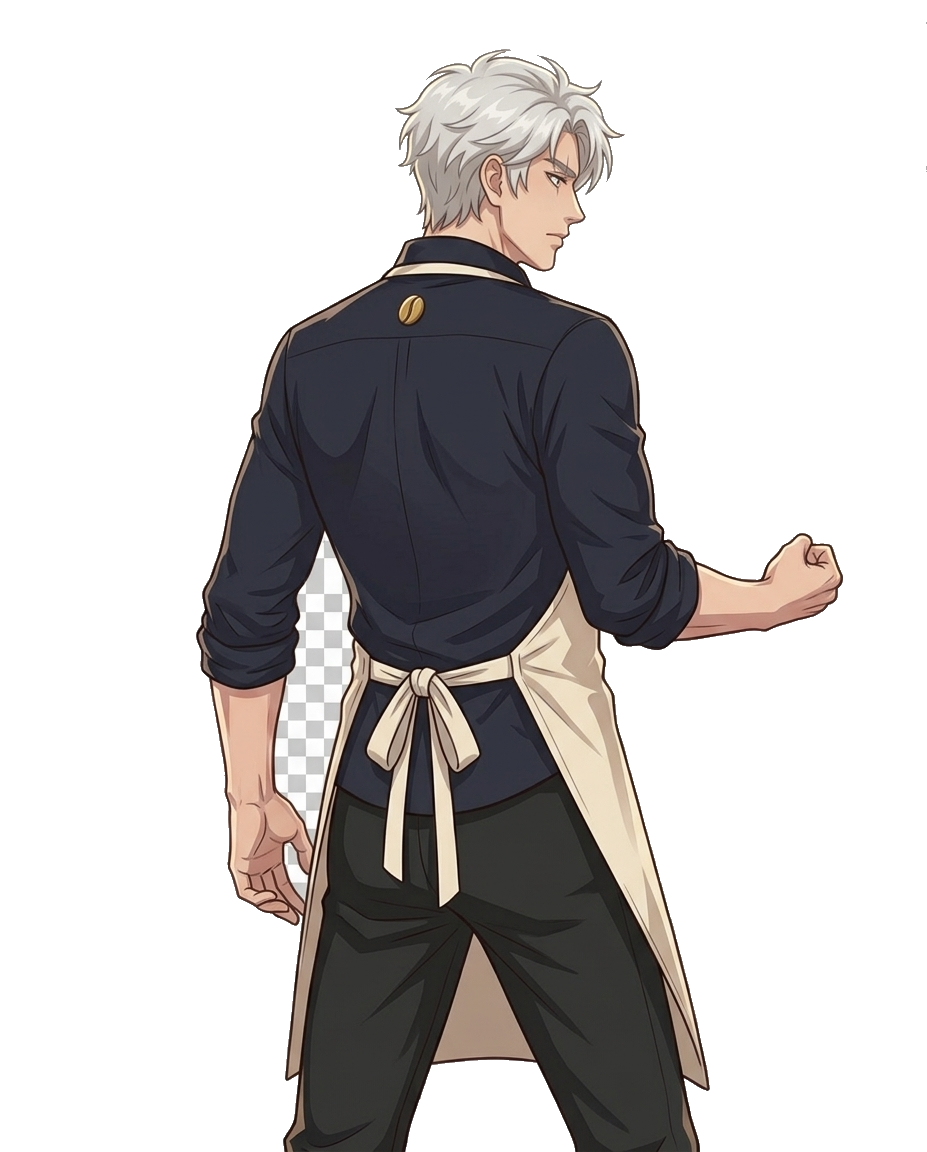
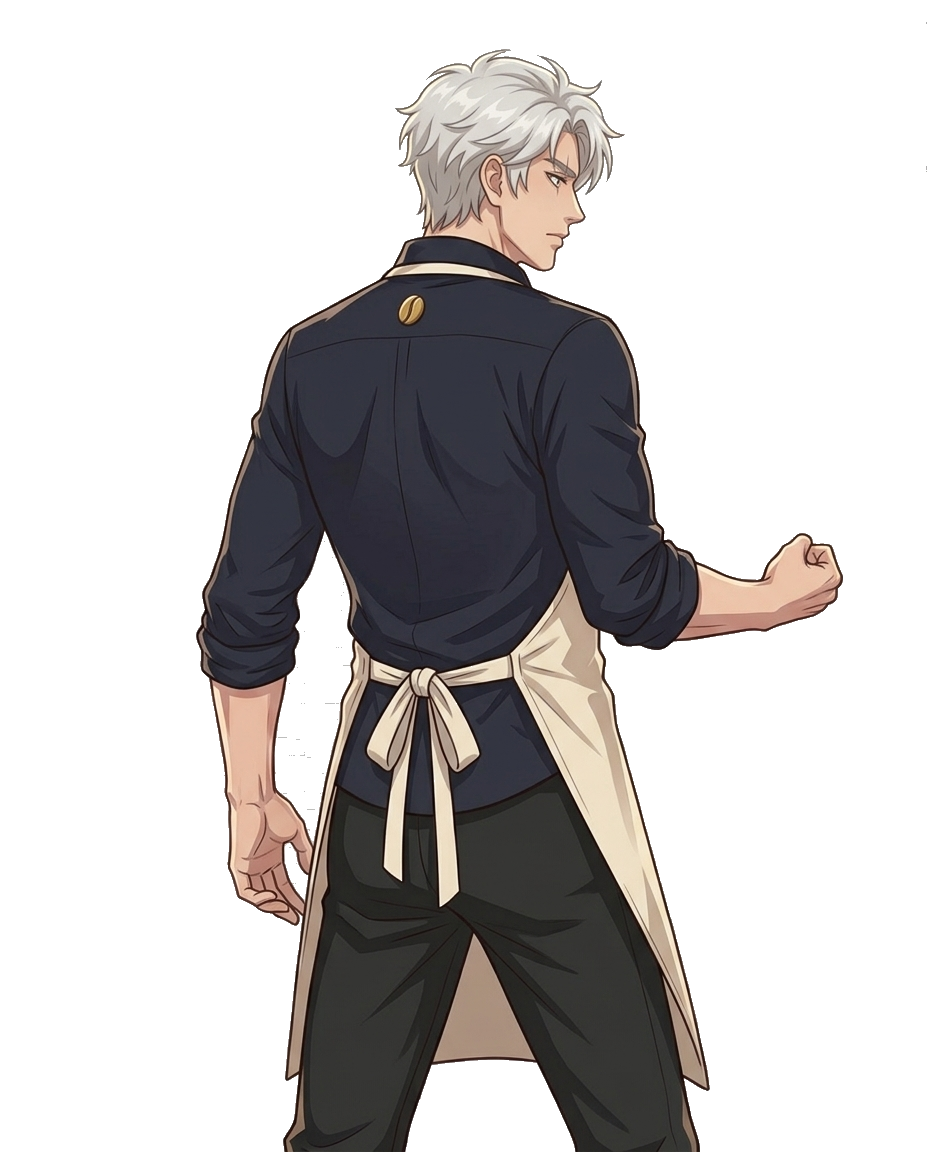
5단계: 재료 확장 + 6 카테고리 조합 + 카페/전투 효과 연동
재료: 우유·시럽·카카오(채집) + 황금원두(전투 희귀 드롭) 추가, SVG 4종 신규
  - GATHER_MATS로 채집 풀에서 황금원두 제외, MAT_ICON 자동 생성
  - 승리 시 황금원두 드롭(보스35%/일반12%)
조합: CRAFT_DB 6종 정비 — 😊카페라떼·⏳타임시럽·💯골든블렌드·💖하트마카롱·⚔️더블샷·🛡️크림실드
  - 각 레시피 where(cafe/battle)로 소비 위치 구분
효과 연동:
  - 카페(useCraftedItem): mood(다음 손님 3명 골드+50%, moodBoost 세이브)·affection(메인 3명 호감+10)
  - 전투(explore): 🎒 아이템 버튼+미니 메뉴, 더블샷=공격력×1.5·크림실드=피해×0.5(전투당 초기화)
  - 카페 잡화점은 where=cafe만 노출, 전투템 카페 사용 시 안내
  - 스펠링 조합 퀴즈 게이트(정답시 재료소모+SRS box↑, 오답시 보존)는 기존 유지
세이브: moodBoost 등 신규 필드 없으면 기본값(기존 패턴)

Changed region(s): [[0.2718, 0.4688, 0.3927, 0.7812]]

diff --git a/explore.html b/explore.html
@@ -191,7 +191,17 @@
   @keyframes dpop{ 0%{ transform:translateY(0) scale(.6); opacity:0 } 20%{ transform:translateY(-10px) scale(1.15); opacity:1 } 100%{ transform:translateY(-54px) scale(1); opacity:0 } }
   .b-bottom{ background:linear-gradient(180deg,#3a2620,#2b1a16); border-top:3px solid var(--gold); padding:10px 14px calc(10px + env(safe-area-inset-bottom)); }
   .b-msg{ min-height:2.1em; color:#fff8e1; font-size:1.02rem; line-height:1.35; margin-bottom:9px; padding:1px 3px; }
-  .b-cmds{ display:grid; grid-template-columns:1fr 1.35fr 1fr; gap:10px; transition:opacity .3s; }
+  .b-cmds{ display:grid; grid-template-columns:1fr 1.3fr 0.85fr 0.85fr; gap:8px; transition:opacity .3s; }
+  .cmd-item{ background:linear-gradient(180deg,#a5d6a7,#66bb6a); box-shadow:0 4px 0 #2e7d32; color:#173b1a; }
+  .cmd-item:active{ box-shadow:0 2px 0 #2e7d32; }
+  /* 전투 아이템 미니 메뉴 */
+  #b-itemmenu{ position:absolute; left:0; right:0; bottom:100%; margin-bottom:8px; display:none; z-index:8; }
+  #b-itemmenu.show{ display:block; }
+  .bi-card{ display:flex; align-items:center; gap:10px; background:#fff; border-radius:13px; padding:9px 12px; margin:0 14px 8px; box-shadow:0 5px 14px rgba(0,0,0,.35); }
+  .bi-ic{ font-size:1.5rem; } .bi-nm{ font-weight:bold; color:#3a2a16; font-size:.95rem; } .bi-bn{ font-size:.78rem; color:#7a5a2a; }
+  .bi-use{ margin-left:auto; border:none; border-radius:11px; padding:7px 14px; font-family:inherit; font-weight:bold; color:#fff; background:linear-gradient(180deg,#66bb6a,#388e3c); box-shadow:0 3px 0 #2e7d32; cursor:pointer; }
+  .bi-use:active{ transform:translateY(2px); box-shadow:none; }
+  .bi-empty{ background:rgba(255,255,255,.95); border-radius:13px; padding:12px; margin:0 14px 8px; text-align:center; color:#7a5a2a; font-size:.88rem; }
   .b-cmd{ position:relative; overflow:hidden; border:none; border-radius:15px; font-family:inherit; cursor:pointer;
     display:flex; flex-direction:column; align-items:center; justify-content:center; gap:1px; padding:9px 6px 8px; line-height:1.05; }
   .b-cmd .cmd-ic{ font-size:1.45rem; } .b-cmd .cmd-lb{ font-size:.92rem; font-weight:bold; }
@@ -316,11 +326,13 @@
     <div id="p-pop" style="position:absolute; bottom:20%; left:18%;"></div>
     <div id="b-flash"></div>
   </div>
-  <div class="b-bottom">
+  <div class="b-bottom" style="position:relative;">
+    <div id="b-itemmenu"></div>
     <div class="b-msg" id="b-msg" onpointerdown="Battle.skipTap()">전투 시작!</div>
     <div class="b-cmds">
       <button class="b-cmd cmd-atk" id="cmd-atk" onclick="Battle.playerAttack('normal')"><span class="cmd-ic">🗡️</span><span class="cmd-lb">공격</span></button>
       <button class="b-cmd cmd-skill" id="cmd-skill" onclick="Battle.useSkill()" disabled><span class="skill-fill" id="skill-fill"></span><span class="cmd-ic" id="skill-ic">✨</span><span class="cmd-lb" id="skill-lb">스킬</span></button>
+      <button class="b-cmd cmd-item" id="cmd-item" onclick="Battle.toggleItems()"><span class="cmd-ic">🎒</span><span class="cmd-lb">아이템</span></button>
       <button class="b-cmd cmd-flee" id="cmd-flee" onclick="Battle.flee()"><span class="cmd-ic">🏃</span><span class="cmd-lb">도망</span></button>
     </div>
   </div>
@@ -447,9 +459,15 @@ function checkRotate(){ applyOrientation(); } // 하위호환
 
 // ---------- 재료 (커스텀 SVG 스프라이트) ----------
 const MATERIALS = {
-  bean:  { name:'커피 원두', icon:'☕', img:'sprites/bean.svg' },
-  berry: { name:'커피 체리', icon:'🍒', img:'sprites/cherry.svg' },
+  bean:     { name:'커피 원두', icon:'☕', img:'sprites/bean.svg' },
+  berry:    { name:'커피 체리', icon:'🍒', img:'sprites/cherry.svg' },
+  milk:     { name:'우유',     icon:'🥛', img:'sprites/milk.svg' },
+  syrup:    { name:'시럽',     icon:'🍯', img:'sprites/syrup.svg' },
+  cacao:    { name:'카카오',   icon:'🟤', img:'sprites/cacao.svg' },
+  goldbean: { name:'황금 원두', icon:'🌟', img:'sprites/goldbean.svg', rare:true }, // 채집X, 전투 희귀 드롭만
 };
+// 채집 노드로 등장하는 재료(황금 원두는 제외 — 전투 보상으로만 획득)
+const GATHER_MATS = Object.keys(MATERIALS).filter(k => !MATERIALS[k].rare);
 // ---------- 동행 캐릭터 (채용 게이팅은 Stage C, 지금은 자유 선택해 미리보기) ----------
 const COMPANIONS = {
   none: { name:'기본',  emoji:'🧑🍳', img:null, battleImg:'chars/chef_back.png', charId:null },
@@ -483,13 +501,15 @@ const EQUIP_DB = {
     { id:'a_bean',  name:'원두 갑옷',     icon:'🧥', def:6, hp:20, cost:{gold:600, bean:8, berry:8} },
   ],
 };
-const MAT_ICON = { bean:'☕', berry:'🍒' };
+const MAT_ICON = Object.fromEntries(Object.entries(MATERIALS).map(([k,m])=>[k,m.icon]));
 // ---------- 조합 레시피 (재료+스펠링퀴즈 → 카페에서 쓰는 특별 아이템) ----------
 const CRAFT_DB = [
-  { id:'cr_score',  name:'골든 블렌드', icon:'✨', cost:{bean:3},          effect:'double', edesc:'카페: 다음 정답 점수 2배' },
-  { id:'cr_time',   name:'타임 시럽',   icon:'⏳', cost:{berry:3},         effect:'time',   edesc:'카페: 손님 시간 +5초' },
-  { id:'cr_shield', name:'포근한 라떼', icon:'🛡️', cost:{bean:2,berry:2},  effect:'shield', edesc:'카페: 콤보 보호막' },
-  { id:'cr_life',   name:'에너지 샷',   icon:'❤️', cost:{bean:4},          effect:'life',   edesc:'카페: 라이프 +1' },
+  { id:'cr_mood',  name:'카페라떼',     icon:'😊', cost:{bean:2,milk:2},     effect:'mood',   where:'cafe',   edesc:'카페: 다음 손님 3명 골드 +50%' },
+  { id:'cr_time',  name:'타임 시럽',    icon:'⏳', cost:{syrup:3},           effect:'time',   where:'cafe',   edesc:'카페: 지금 손님 시간 +5초' },
+  { id:'cr_score', name:'골든 블렌드',  icon:'💯', cost:{goldbean:1,bean:2}, effect:'double', where:'cafe',   edesc:'카페: 다음 정답 점수 2배' },
+  { id:'cr_heart', name:'하트 마카롱',  icon:'💖', cost:{cacao:2,milk:1},    effect:'affection', where:'cafe', edesc:'카페: 메인 손님 호감 +10' },
+  { id:'cr_atk',   name:'더블 샷',      icon:'⚔️', cost:{bean:3},            effect:'atkup',  where:'battle', edesc:'탐험: 이번 전투 공격력 +50%' },
+  { id:'cr_def',   name:'크림 실드',    icon:'🛡️', cost:{milk:2,berry:2},    effect:'defup',  where:'battle', edesc:'탐험: 이번 전투 받는 피해 −50%' },
 ];
 // ---------- 이미지 프리로더 ----------
 const Assets = {
@@ -573,7 +593,7 @@ const World = {
     for(let i=0;i<60;i++){ const x=2+Math.floor(this.rnd()*(this.WT-4)), y=3+Math.floor(this.rnd()*(this.HT-5));
       if(!this.barrier.has(key(x,y))) this.deco[y][x]=[39,42,43][Math.floor(this.rnd()*3)]; }
     // 채집 노드
-    const mats=Object.keys(MATERIALS);
+    const mats=GATHER_MATS;
     let placed=0, tries=0;
     while(placed<28 && tries<400){ tries++;
       const x=2+Math.floor(this.rnd()*(this.WT-4)), y=3+Math.floor(this.rnd()*(this.HT-5));
@@ -1051,6 +1071,7 @@ const Battle = {
       base = MONSTERS[ids[Math.floor(this._rand()*ids.length)]] || MONSTERS.slime; }
     const m = this.scaleMonster(base, opts);
     this.enemy=m; this.eMax=m.hp; this.eHp=m.hp; this.active=true; this.busy=false; this.lastStep=Explore.state.steps;
+    this.atkBuff=1; this.dmgReduce=0; this.hideItems(); // 전투 아이템 버프는 전투마다 초기화
     World.release();
     const es=document.getElementById('e-sprite'); es.className='sprite-enemy'+(m.isBoss?' boss':'');
     if(m.art){ es.innerHTML='<img src="'+m.art+'">'; } else { es.classList.add('emoji'); es.textContent=m.emoji; }
@@ -1084,7 +1105,22 @@ const Battle = {
   setBar(who,hp,max){ const f=document.getElementById(who+'-hpfill'); const pct=Math.max(0,Math.min(100,hp/max*100));
     f.style.width=pct+'%'; f.className='hpfill'+(pct<=25?' low':(pct<=50?' mid':'')); },
   calc(atk,def,mult){ let b=atk*mult-def*0.5; b*=0.85+this._rand()*0.3; const crit=this._rand()<0.12; if(crit)b*=1.6; return {dmg:Math.max(1,Math.round(b)),crit}; },
-  setButtons(on){ this._canAct=on; document.getElementById('cmd-atk').disabled=!on; document.getElementById('cmd-flee').disabled=!on; this.refreshSkill(); },
+  setButtons(on){ this._canAct=on; document.getElementById('cmd-atk').disabled=!on; document.getElementById('cmd-flee').disabled=!on;
+    const ib=document.getElementById('cmd-item'); if(ib) ib.disabled=!on; if(!on) this.hideItems(); this.refreshSkill(); },
+  // ----- 전투 소비 아이템(공격력↑/방어력↑) — 같은 craftedItems 공유, 이번 전투 한정 버프 -----
+  toggleItems(){ if(this.busy||!this.active)return; const m=document.getElementById('b-itemmenu');
+    if(m.classList.contains('show')){ this.hideItems(); return; } this.renderItems(); m.classList.add('show'); },
+  hideItems(){ const m=document.getElementById('b-itemmenu'); if(m) m.classList.remove('show'); },
+  renderItems(){ const owned=Explore.cafe.craftedItems||{}; const list=CRAFT_DB.filter(r=>r.where==='battle'&&(owned[r.id]||0)>0);
+    const m=document.getElementById('b-itemmenu');
+    if(!list.length){ m.innerHTML='<div class="bi-empty">전투 아이템이 없어요.<br>조합소에서 ⚔️·🛡️ 아이템을 만들어보세요!</div>'; return; }
+    m.innerHTML=list.map(r=>`<div class="bi-card"><span class="bi-ic">${r.icon}</span><div><div class="bi-nm">${r.name} <small style="color:#999">x${owned[r.id]}</small></div><div class="bi-bn">${r.edesc.replace(/^탐험:\s*/,'')}</div></div><button class="bi-use" onclick="Battle.useBattleItem('${r.id}')">사용</button></div>`).join(''); },
+  useBattleItem(id){ if(this.busy||!this.active)return; const r=CRAFT_DB.find(x=>x.id===id); const owned=Explore.cafe.craftedItems||{};
+    if(!r||!(owned[id]>0))return;
+    owned[id]--; if(owned[id]<=0) delete owned[id]; Explore.cafe.craftedItems=owned; Explore.persist();
+    if(r.effect==='atkup'){ this.atkBuff=1.5; this.msg(`⚔️ <b>${r.name}</b> 사용! 이번 전투 공격력 +50%`); }
+    else if(r.effect==='defup'){ this.dmgReduce=0.5; this.msg(`🛡️ <b>${r.name}</b> 사용! 이번 전투 받는 피해 −50%`); }
+    Sfx.play('correct'); exHaptic('success'); this.hideItems(); },
   refreshSkill(){ const sb=document.getElementById('cmd-skill'); if(!sb)return; const ready=this.gauge>=this.GMAX;
     const fill=document.getElementById('skill-fill'); if(fill) fill.style.height=Math.min(100,this.gauge/this.GMAX*100)+'%';
     sb.disabled=!(this._canAct&&ready); sb.classList.toggle('ready', ready&&!!this._canAct); },
@@ -1114,7 +1150,7 @@ const Battle = {
     const ps=document.getElementById('p-self'), es=document.getElementById('e-sprite');
     ps.classList.add('lunge'); await this.wait(150);
     if(this._rand()<miss){ Sfx.play('miss'); this.pop('e','MISS','miss'); this.msg('공격이 빗나갔다…'); await this.wait(650); }
-    else { const {dmg,crit}=this.calc(p.atk,this.enemy.def,power?1.7:1.0); this.eHp-=dmg;
+    else { const {dmg,crit}=this.calc(p.atk,this.enemy.def,(power?1.7:1.0)*(this.atkBuff||1)); this.eHp-=dmg;
       Sfx.play(crit?'crit':'hit'); exHaptic(crit?'heavy':'light');
       es.classList.add('hit'); this.shake(); this.pop('e','-'+dmg+(crit?'!':''),crit?'crit':null);
       this.msg(`${power?'강공격! ':''}${this.enemy.name}에게 <b>${dmg}</b> 피해!${crit?' 치명타!':''}`); this.renderBars(); await this.wait(550); es.classList.remove('hit'); }
@@ -1123,7 +1159,7 @@ const Battle = {
   async enemyTurn(){ const ps=document.getElementById('p-self'), es=document.getElementById('e-sprite');
     es.classList.add('lunge'); await this.wait(180); const p=this.pStat();
     if(this._rand()<0.05){ this.pop('p','MISS','miss'); this.msg(`${this.enemy.name}의 공격이 빗나갔다!`); await this.wait(600); }
-    else { const {dmg,crit}=this.calc(this.enemy.atk,p.def,1.0); Explore.state.stats.hp=p.hp-dmg;
+    else { let {dmg,crit}=this.calc(this.enemy.atk,p.def,1.0); dmg=Math.max(1,Math.round(dmg*(1-(this.dmgReduce||0)))); Explore.state.stats.hp=p.hp-dmg;
       Sfx.play('enemy'); exHaptic('heavy');
       ps.classList.add('hit'); this.shake(); this.pop('p','-'+dmg,crit?'crit':null);
       this.msg(`${this.enemy.name}의 공격! 나에게 <b>${dmg}</b> 피해!`); this.renderBars(); Explore.refreshHUD(); this.addGauge(16); await this.wait(600); ps.classList.remove('hit'); }
@@ -1132,6 +1168,8 @@ const Battle = {
   async win(){ const e=this.enemy; Sfx.play('win'); exHaptic('success'); document.getElementById('e-sprite').classList.add('dead'); this.msg(`${e.name}을(를) 쓰러뜨렸다!`); await this.wait(700);
     const gold=Math.round(e.gold*(1+Explore.effBonus().goldPct)); Explore.cafe.wallet+=gold; Explore.state.materials[e.drop]=(Explore.state.materials[e.drop]||0)+1;
     let txt=`승리! 🪙+${gold} · ${MATERIALS[e.drop].icon}${MATERIALS[e.drop].name}+1 · ⭐EXP+${e.exp}`; Explore.state.exp+=e.exp;
+    // 황금 원두 희귀 드롭(보스 35% · 일반 12%) — 골든 블렌드 조합 재료
+    if(this._rand() < (e.isBoss?0.35:0.12)){ Explore.state.materials.goldbean=(Explore.state.materials.goldbean||0)+1; txt+=`<br><span class="lvlup">🌟 황금 원두를 발견했다! (+1)</span>`; }
     const ups=[]; while(Explore.state.exp>=expNeed(Explore.state.level)){ Explore.state.exp-=expNeed(Explore.state.level); Explore.state.level++;
       const st=Explore.state.stats; st.maxHp+=8; st.atk+=3; st.def+=2; st.hp=st.maxHp; ups.push(Explore.state.level); }
     if(ups.length){ txt+=`<br><span class="lvlup">🎉 레벨 업! Lv ${ups[ups.length-1]} (HP·공·방 상승, 체력 회복)</span>`; setTimeout(()=>Sfx.play('levelup'),450); }

diff --git a/index.html b/index.html
@@ -1561,17 +1561,24 @@ const CONSUMABLES = [
 
 // [탐험 조합 아이템] 탐험 조합소에서 만든 특별 아이템 — 카페에서 사용 (gameSave.craftedItems 공유)
 const CRAFTED_DEFS = {
-    cr_score:  { name:'골든 블렌드', icon:'✨', effect:'double', desc:'다음 정답 점수 2배' },
-    cr_time:   { name:'타임 시럽',   icon:'⏳', effect:'time',   desc:'지금 손님 시간 +5초' },
-    cr_shield: { name:'포근한 라떼', icon:'🛡️', effect:'shield', desc:'한 번 틀려도 콤보 유지' },
-    cr_life:   { name:'에너지 샷',   icon:'❤️', effect:'life',   desc:'라이프 +1' },
+    // 카페에서 사용(잡화점 '사용' 버튼)
+    cr_mood:   { name:'카페라떼',    icon:'😊', effect:'mood',     where:'cafe', desc:'다음 손님 3명 골드 +50%' },
+    cr_time:   { name:'타임 시럽',   icon:'⏳', effect:'time',     where:'cafe', desc:'지금 손님 시간 +5초' },
+    cr_score:  { name:'골든 블렌드', icon:'💯', effect:'double',   where:'cafe', desc:'다음 정답 점수 2배' },
+    cr_heart:  { name:'하트 마카롱', icon:'💖', effect:'affection', where:'cafe', desc:'메인 손님 호감 +10' },
+    // 탐험 전투에서 사용(전투 화면 🎒 버튼) — 카페 잡화점엔 안 보임
+    cr_atk:    { name:'더블 샷',      icon:'⚔️', effect:'atkup', where:'battle', desc:'탐험 전투 공격력 +50%' },
+    cr_def:    { name:'크림 실드',    icon:'🛡️', effect:'defup', where:'battle', desc:'탐험 전투 받는 피해 −50%' },
+    // 레거시(이전 세이브 호환 — 더 이상 조합 불가, 보유분은 사용 가능)
+    cr_shield: { name:'포근한 라떼', icon:'🛡️', effect:'shield', where:'cafe', desc:'한 번 틀려도 콤보 유지' },
+    cr_life:   { name:'에너지 샷',   icon:'❤️', effect:'life',   where:'cafe', desc:'라이프 +1' },
 };
 
 // ==========================================
 // [5] 게임 엔진 (Game Object)
 // ==========================================
 const game = {
-    wallet: 0, score: 0, lifetimeScore: 0, lives: 5, day: 1, bestDay: 1, lastDaily: '', dailyStreak: 0, affection: {}, charActs: {}, mainSeenDay: {}, totalCustomers: 0, dailyCount: 0, masteredCount: 0,
+    wallet: 0, score: 0, lifetimeScore: 0, lives: 5, day: 1, bestDay: 1, lastDaily: '', dailyStreak: 0, affection: {}, charActs: {}, mainSeenDay: {}, moodBoost: 0, totalCustomers: 0, dailyCount: 0, masteredCount: 0,
     isMuted: false, gameMode: 'normal', isActive: false, isPaused: false, timer: null, currentCust: null,
     activePool: [], sortedWords: [], ownedItems: [], myWords: [],
     
@@ -1612,6 +1619,7 @@ const game = {
             this.affection = (data.affection && typeof data.affection==='object') ? data.affection : {}; // 메인 호감도
             this.charActs = (data.charActs && typeof data.charActs==='object') ? data.charActs : {};      // 해금된 스토리 막 수
             this.mainSeenDay = (data.mainSeenDay && typeof data.mainSeenDay==='object') ? data.mainSeenDay : {}; // 메인별 그날 첫 등장 추적(일일 대사)
+            this.moodBoost = (typeof data.moodBoost==='number' && data.moodBoost>0) ? data.moodBoost : 0; // 카페라떼: 남은 골드+50% 손님 수
             this.bestDay = data.bestDay || data.day || 1;       // 최고 기록(게임오버에도 유지)
             this.lastDaily = data.lastDaily || '';              // 마지막 출석 보상 날짜(YYYY-M-D)
             this.dailyStreak = data.dailyStreak || 0;           // 연속 출석 일수
@@ -1701,7 +1709,7 @@ const game = {
             myWords: this.myWords,
             day: this.day, score: this.score, lifetimeScore: this.lifetimeScore || 0,
             bestDay: this.bestDay || 1, lastDaily: this.lastDaily || '', dailyStreak: this.dailyStreak || 0,
-            affection: this.affection || {}, charActs: this.charActs || {}, mainSeenDay: this.mainSeenDay || {},
+            affection: this.affection || {}, charActs: this.charActs || {}, mainSeenDay: this.mainSeenDay || {}, moodBoost: this.moodBoost || 0,
             lives: this.lives,
             stats: { totalServed: totalServedCount, totalVip: totalVipCount, totalItems: totalItemsBought, currentQuests: currentQuests },
             totalCustomers: this.totalCustomers, dailyCount: this.dailyCount, isMuted: this.isMuted,
@@ -2066,7 +2074,9 @@ const game = {
             // 저장 및 랭크
             this.score += pts;
             this.lifetimeScore = (this.lifetimeScore || 0) + pts; // 누적 점수 — 랭크 상승용(안 깎임)
-            this.wallet += pts;
+            let goldGain = pts;
+            if (this.moodBoost && this.moodBoost > 0) { goldGain = Math.round(goldGain * 1.5); this.moodBoost--; } // 😊 카페라떼: 골드 +50%
+            this.wallet += goldGain;
             this.totalCustomers++;
             // [버그수정] 하루 손님 수 / 누적 서빙 / VIP 카운터 증가 — 날짜진행·퀘스트 정상화
             if(this.gameMode === 'normal') this.dailyCount++;
@@ -2481,7 +2491,8 @@ const game = {
 
         // [탐험 조합 아이템] 보유분을 맨 위에 — 사용하면 효과 발동
         const ci = this.craftedItems || {};
-        const ownedIds = Object.keys(ci).filter(id => ci[id] > 0 && CRAFTED_DEFS[id]);
+        // 카페에서 쓰는 아이템만 노출(전투 전용 ⚔️🛡️은 탐험 전투의 🎒 버튼에서 사용)
+        const ownedIds = Object.keys(ci).filter(id => ci[id] > 0 && CRAFTED_DEFS[id] && CRAFTED_DEFS[id].where !== 'battle');
         if (ownedIds.length) {
             const head = document.createElement('div');
             head.style.cssText = 'font-weight:bold;color:#388e3c;padding:4px 2px;font-size:0.95rem;';
@@ -2533,8 +2544,13 @@ const game = {
         const ci = this.craftedItems || {};
         if (!ci[id] || ci[id] <= 0) return;
         const d = CRAFTED_DEFS[id]; if (!d) return;
+        if (d.where === 'battle') { showGameAlert(`${d.icon} <b>${d.name}</b>은(는) 🗺️ 탐험 전투 중 🎒 버튼으로 사용해요.`, null); return; }
         if (d.effect === 'double') { this.doubleNext = true; }
         else if (d.effect === 'shield') { this.comboShield = true; }
+        else if (d.effect === 'mood') { this.moodBoost = (this.moodBoost || 0) + 3; this.updateHUD(); }
+        else if (d.effect === 'affection') {
+            ['m_roa','m_luna','m_sera'].forEach(mid => this.gainAffection(mid, 10));
+        }
         else if (d.effect === 'life') {
             if (this.lives >= 5) { showGameAlert("❤️ 체력이 이미 가득 찼어요. 아껴두세요!", null); return; }
             this.lives = Math.min(5, this.lives + 1); this.updateHUD();